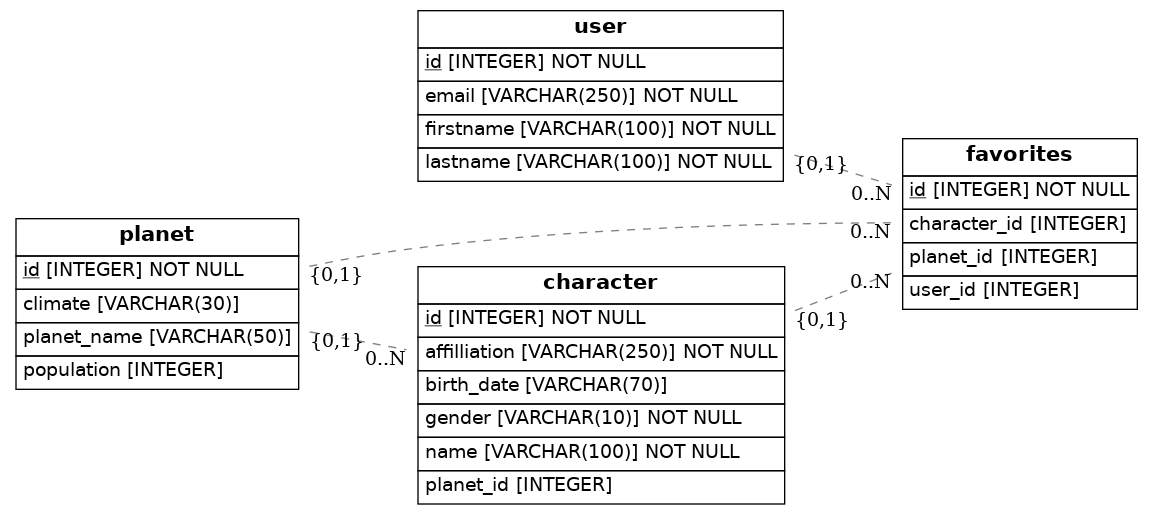
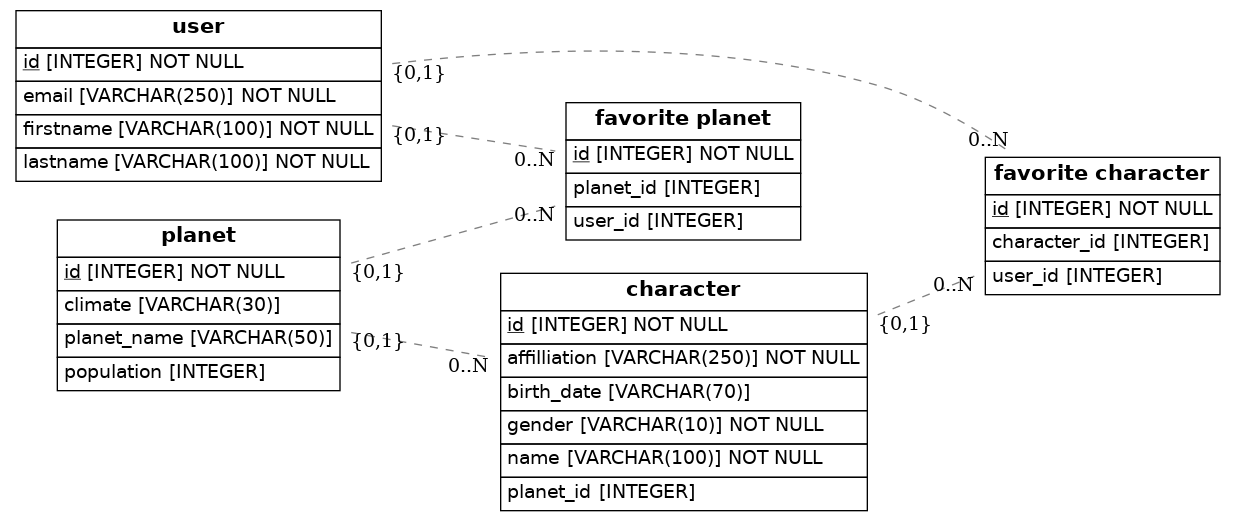
proyecto modificado

Changed region(s): [[0.0, 0.2485, 0.9991, 0.9942], [0.0, 0.0, 0.7493, 0.466]]

diff --git a/src/models.py b/src/models.py
@@ -15,12 +15,20 @@ class User(Base):
     lastname = Column(String(100), nullable=False)
     email = Column(String(250), nullable=False)
 
+    def to_dict(self):
+        return {}
+
+
 class Planet(Base):
     __tablename__ = 'planet'
     id = Column(Integer, primary_key=True)
     planet_name = Column(String(50))
     climate = Column(String(30))
     population = Column(Integer, nullable=True)
+
+    def to_dict(self):
+        return {}
+
 
 class Character(Base):
     __tablename__ = 'character'
@@ -31,11 +39,24 @@ class Character(Base):
     affilliation = Column(String(250), nullable=False)
     planet_id = Column(Integer, ForeignKey('planet.id'))
 
-class Favorites(Base):
-    __tablename__ = 'favorites'
+    def to_dict(self):
+        return {}
+
+
+class FavoritePlanet(Base):
+    __tablename__ = 'favorite planet'
     id = Column(Integer, primary_key=True)
     user_id = Column(Integer, ForeignKey('user.id'))
     planet_id = Column(Integer, ForeignKey('planet.id'))
+
+    def to_dict(self):
+        return {}
+
+
+class FavoriteCharacter(Base):
+    __tablename__ = 'favorite character'
+    id = Column(Integer, primary_key=True)
+    user_id = Column(Integer, ForeignKey('user.id'))
     character_id = Column(Integer, ForeignKey('character.id'))
 
     def to_dict(self):
